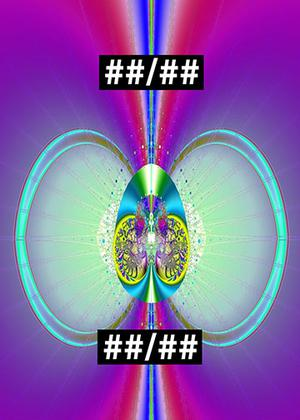
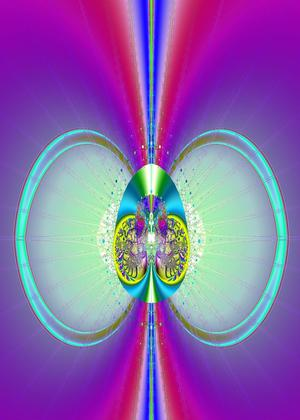
hashparagraphs as values

diff --git a/jsPsych-4.3/plugins/jspsych-anna.js b/jsPsych-4.3/plugins/jspsych-anna.js
@@ -35,22 +35,23 @@
 			var trialLength = trial.item.arrangement.length;
 			var interTrialInterval = 700;
 			var interResponseInterval = 500;
+			var imgs = trial.item.imgs;
 
 			var imgSize = 'height:420px;width:300px;background-size: 300px 420px;';
 			var imgStyle = 'position:absolute;margin:4px;';
+			var valStyle = 'position:absolute;height:32px;width:100px;text-align:center;font-size:25px;font-weight:bold;'
 			var styles = {
+				valDivL : valStyle+'top:190px;left:20px;',
+				valDivR : valStyle+'top:190px;left:180px;',
 				single: {
-					imgDiv : imgSize+imgStyle+'left:'+(env.centX-150-4).toString()+'px;top:'+(env.centY-210-4).toString()+'px;',
-					valDiv : ''
+					imgDiv : imgSize+imgStyle+'left:'+(env.centX-150-4).toString()+'px;top:'+(env.centY-210-4).toString()+'px;'
 				},
 				double : {
 					left : {
-						imgDiv : imgSize+imgStyle+'left:'+(env.centX-250-150-4).toString()+'px;top:'+(env.centY-210-4).toString()+'px;',
-						valDiv : ''
+						imgDiv : imgSize+imgStyle+'left:'+(env.centX-250-150-4).toString()+'px;top:'+(env.centY-210-4).toString()+'px;'
 					},
 					right : {
-						imgDiv : imgSize+imgStyle+'left:'+(env.centX+250-150-4).toString()+'px;top:'+(env.centY-210-4).toString()+'px;',
-						valDiv : ''
+						imgDiv : imgSize+imgStyle+'left:'+(env.centX+250-150-4).toString()+'px;top:'+(env.centY-210-4).toString()+'px;'
 					}
 				}
 			};
@@ -104,30 +105,47 @@
 				};
 			};
 
-			//display stimulus
+			//display images
 			if (trial.item.arrangement.length==1){
 				display_element.html(
-				"<div id='singleImgDiv' style='"+
+				"<div id='singleImgDiv' class='imgDiv' style='"+
 					styles.single.imgDiv+
 					"background-image:url(./"+
-					trial.item.imgs[0].path+
+					imgs[0].path+
 					");'></div>"
 				);
 			}else{
 				display_element.html(
-				"<div id='leftImgDiv' style='"+
+				"<div id='leftImgDiv' class='imgDiv' style='"+
 					styles.double.left.imgDiv+
 					"background-image:url(./"+
-					trial.item.imgs[0].path+
+					imgs[0].path+
 					");'></div>"+
 
-				"<div id='rightImgDiv' style='"+
+				"<div id='rightImgDiv' class='imgDiv' style='"+
 					styles.double.right.imgDiv+
 					"background-image:url(./"+
-					trial.item.imgs[1].path+
+					imgs[1].path+
 					");'></div>"
 				);
 			}
+			// display values
+			var imgDivs = document.getElementsByClassName('imgDiv')
+			for(i=0;i<imgDivs.length;i++){
+				if (trial.item.arrangement[i]=='1'){ //1=P
+					imgDivs[i].innerHTML = "<div id='singleVal' style="+styles.valDivL+"background-color:"+
+						imgs[i].bgColor+";>\
+						<p style='margin:auto;color:"+imgs[i].textColor+";'>##/##</p></div>"+
+						"<div id='singleVal' style="+styles.valDivR+"background-color:"+
+						imgs[i].bgColor+";>\
+						<p style='margin:auto;color:"+imgs[i].textColor+";'>##/##</p></div>";
+				}else{
+					imgDivs[i].innerHTML = "<div id='singleVal' style="+styles.valDivL+"background-color:black;>\
+						<p style='margin:auto;color:white;'>##/##</p></div>"+
+						"<div id='singleVal' style="+styles.valDivR+"background-color:black;>\
+						<p style='margin:auto;color:white;'>##/##</p></div>";
+				}
+			};
 
 			// start the response listener
 			var keyboardListener = jsPsych.pluginAPI.getKeyboardResponse({
